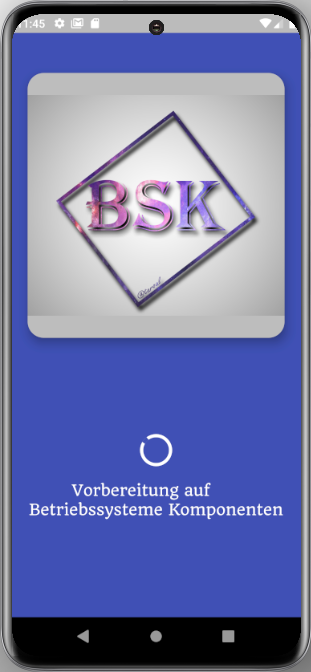
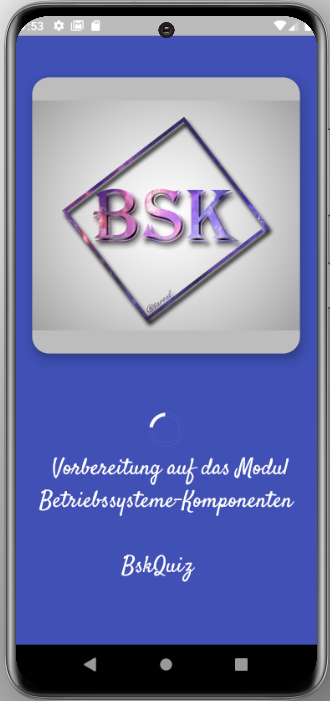
add text for Privacy Policy

diff --git a/lib/screens/authenticate/login/login.dart b/lib/screens/authenticate/login/login.dart
@@ -86,7 +86,7 @@ class _LoginpageState extends State<Loginpage> {
                                         padding: EdgeInsets.all(8.0),
                                         child: TextFormField(
                                           validator: (value) => value.length < 8
-                                              ? 'Passwort muss 8+ Zeichen lang sein!'
+                                              ? 'Das Passwort muss mindesten 8 Zeichen enthalten!'
                                               : null,
                                           onChanged: (value) {
                                             setState(() {
@@ -139,7 +139,7 @@ class _LoginpageState extends State<Loginpage> {
                                         if (!isConnected) {
                                           setState(() {
                                             _error =
-                                                'prüfe deine Internet-Verbindung!';
+                                                'Keine Internetverbindung. Stelle eine Verbindung zum Internet her und versuche es erneut.';
                                             _loading = false;
                                           });
                                         } else if (result == null) {
@@ -213,7 +213,7 @@ class _LoginpageState extends State<Loginpage> {
                                     } catch (e) {
                                       setState(() {
                                         _error =
-                                            'prüfe deine Internet-Verbindung!';
+                                            'Keine Internetverbindung. Stelle eine Verbindung zum Internet her und versuche es erneut.';
                                         _loading = false;
                                       });
                                       print(e.toString());
@@ -340,7 +340,7 @@ class _LoginpageState extends State<Loginpage> {
                 }
               } catch (e) {
                 setState(() {
-                    _error = 'prüfe deine Internet-Verbindung!';
+                    _error = 'Keine Internetverbindung. Stelle eine Verbindung zum Internet her und versuche es erneut.';
                     _loading = false;
                   });
                 print(e.toString());
@@ -375,7 +375,7 @@ class _LoginpageState extends State<Loginpage> {
               text: 'Registrieren',
               style: TextStyle(
                   color: Colors.white,
-                  fontSize: 14.0,
+                  fontSize: 15.0,
                   fontWeight: FontWeight.bold,
                   fontFamily: 'Quando'),
             ),

diff --git a/lib/screens/authenticate/signup/signup.dart b/lib/screens/authenticate/signup/signup.dart
@@ -116,7 +116,7 @@ class _SignuppageState extends State<Signuppage> {
                                         if (!isConnected) {
                                           setState(() {
                                             _error =
-                                                'prüfe deine Internet-Verbindung!';
+                                                'Keine Internetverbindung. Stelle eine Verbindung zum Internet her und versuche es erneut.';
                                             _loading = false;
                                           });
                                         } else if (result == null) {
@@ -166,10 +166,15 @@ class _SignuppageState extends State<Signuppage> {
                                     style: TextStyle(
                                         color: Colors.red, fontSize: 14.0)),
                                 SizedBox(
+                                  height: 12,
+                                ),
+                                _buildSignInBtn('/datenschutzbestimmungenpage',
+                                    'Wenn Sie auf "Registrieren" klicken, stimmen Sie den ', 'BskQuizApp-Datenschutzbestimmungen zu.'),
+                                SizedBox(
                                   height: 40,
                                 ),
                                 _buildSignInBtn('/loginpage',
-                                    'Schon registriert? ', 'Sich einloggen')
+                                    'Schon registriert? ', 'Sich einloggen        ')
                               ],
                             ),
                           ),
@@ -183,16 +188,16 @@ class _SignuppageState extends State<Signuppage> {
     );
   }
 
-  Widget _buildSignInBtn(String route, String question, String action) {
+  Widget _buildSignInBtn(String route, String text, String action) {
     return GestureDetector(
       onTap: () {
-        Navigator.of(context).pushReplacementNamed(route);
+        Navigator.of(context).pushNamed(route);
       },
       child: RichText(
         text: TextSpan(
           children: [
             TextSpan(
-              text: question,
+              text: text,
               style: TextStyle(
                   color: Colors.white,
                   fontSize: 14.0,
@@ -203,7 +208,7 @@ class _SignuppageState extends State<Signuppage> {
               text: action,
               style: TextStyle(
                   color: Colors.white,
-                  fontSize: 14.0,
+                  fontSize: 15.0,
                   fontWeight: FontWeight.bold,
                   fontFamily: 'Quando'),
             ),

diff --git a/lib/screens/splash/splash.dart b/lib/screens/splash/splash.dart
@@ -11,7 +11,7 @@ class _SplashscreenState extends State<Splashscreen> {
   @override
   void initState() {
     super.initState();
-    Timer(Duration(seconds: 4), () {
+    Timer(Duration(seconds: 5), () {
       Navigator.of(context).pushReplacementNamed(
         '/loginpage',
       );
@@ -59,14 +59,14 @@ class _SplashscreenState extends State<Splashscreen> {
                     backgroundColor: Colors.white,
                   ),
                   Padding(
-                    padding: EdgeInsets.only(top: 20.0),
+                    padding: EdgeInsets.only(top: 10.0),
                   ),
                   Text(
-                    '        Vorbereitung auf\nBetriebssysteme Komponenten',
+                    '  Vorbereitung auf das Modul\nBetriebssysteme-Komponenten\n\n             BskQuiz',
                     style: TextStyle(
                         color: Colors.white,
-                        fontSize: 19.0,
-                        fontFamily: "Quando"),
+                        fontSize: 27.0,
+                        fontFamily: "Satisfy"),
                   )
                 ],
               ),
